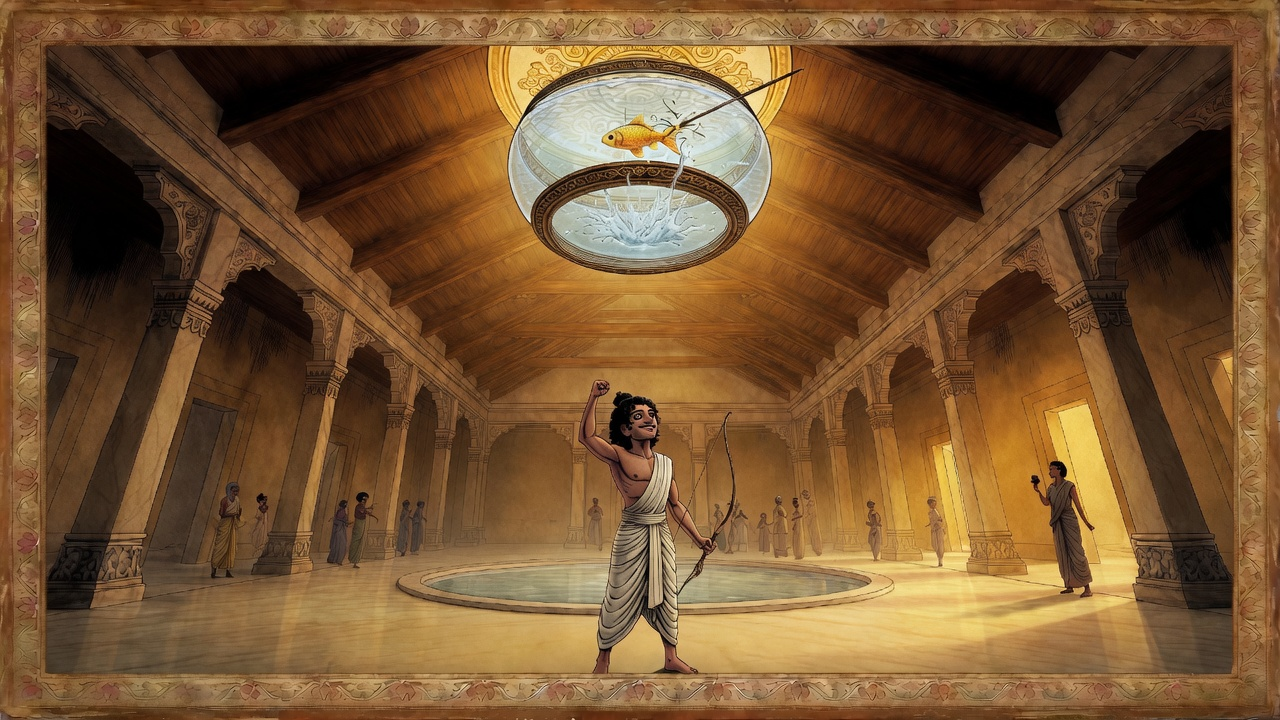
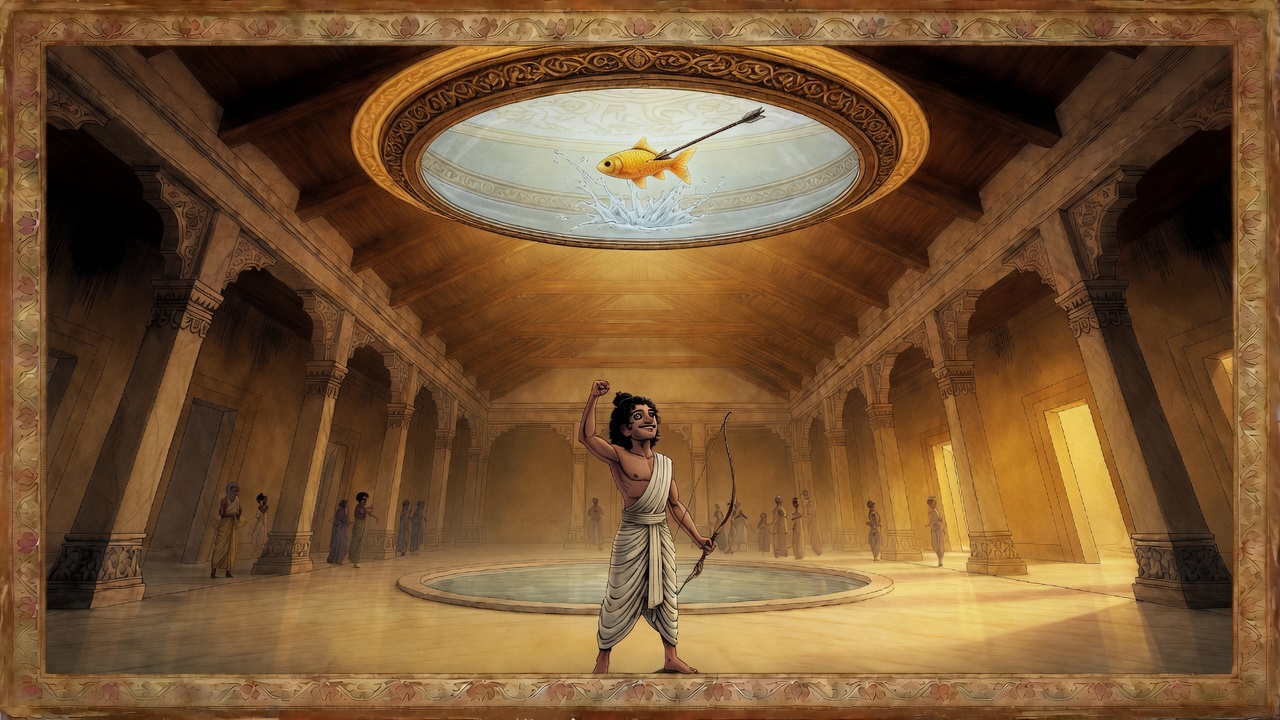
fix(mahabharata): large tank continuity + curtain balcony etiquette
Logic gate now fails sitting-on-railing and pot-sized tanks. Panel 1:
women peer from behind curtains. Panels 3/6/7: large ceiling aquarium
matching challenge plate dimensions.

diff --git a/mahabharata/episodes/02-swayamvara/script.js b/mahabharata/episodes/02-swayamvara/script.js
@@ -12,7 +12,7 @@ export const EPISODE = {
   voice: {
     provider: "grok-tts",
     voice_id: "orion",
-    cache: "ep02-v5-durbar-tank",
+    cache: "ep02-v6-curtain-largetank",
     note: "Grok TTS orion — v4 ceiling-high aquarium + split aim geometry",
     base: "episodes/02-swayamvara/audio/",
   },

diff --git a/mahabharata/play.html b/mahabharata/play.html
@@ -67,6 +67,6 @@
     </div>
   </div>
 
-  <script type="module" src="js/main.js?v=ep02-durbar-tank-v5"></script>
+  <script type="module" src="js/main.js?v=ep02-curtain-largetank-v6"></script>
 </body>
 </html>

diff --git a/mahabharata/tools/logic_review.py b/mahabharata/tools/logic_review.py
@@ -26,7 +26,40 @@ ORPHAN_PROP_BAN = [
     "dry fish on pole",
     "metal fish without glass",
     "fish swimming in floor pool as target",
+    "sitting on the railing",
+    "sitting on the balcony railing",
+    "sitting on the terrace wall",
+    "sitting on the balustrade",
+    "perched on the railing",
+    "legs dangling from balcony",
+    "women sitting on the wall",
 ]
+
+# Court etiquette — positive seating fails
+RAILING_SIT_BAN = re.compile(
+    r"\b(sit|sitting|seated|perch|perched)\b.{0,40}\b(on|atop|upon)\b.{0,30}"
+    r"\b(railing|rail|ledge|terrace wall|balcony wall|balustrade|parapet)\b|"
+    r"\b(railing|ledge|balustrade|terrace wall)\b.{0,20}\b(sit|sitting|seated)\b",
+    re.I,
+)
+CURTAIN_PEER_OK = re.compile(
+    r"\b(behind|through)\b.{0,30}\b(curtain|veil|jali|screen|lattice)\b|"
+    r"\b(peer|peering|shy|shyly|recess|inner balcony)\b",
+    re.I,
+)
+
+# Tank must be large / match challenge — not pot-sized
+TANK_LARGE = re.compile(
+    r"\b(large|wide|broad|huge|same (size|dimensions?|scale)|matching challenge|"
+    r"challenge[- ]lock|apparatus lock|ceiling disc|wide diameter|spans?.{0,20}roof|"
+    r"large fraction|ornamental sealed)\b",
+    re.I,
+)
+TANK_POT_BAN = re.compile(
+    r"\b(small (pot|jar|bowl|tank|fishbowl)|hanging (pot|jar|bauble)|"
+    r"tiny (tank|aquarium|jar)|pot[- ]sized|jar[- ]sized|goldfish bowl)\b",
+    re.I,
+)
 
 # Style words that fail only if requested as the desired look (not negated)
 STYLE_BAN_POSITIVE = re.compile(
@@ -136,6 +169,14 @@ def check_apparatus(bible: dict) -> list[str]:
             fails.append(f"apparatus missing: {name}")
     if re.search(r"dry fish|pole-mounted fish without glass|metal fish on stick", blob):
         fails.append("apparatus forbids dry/pole fish without glass water")
+    # Size lock: check allowed fields only (ignore "forbidden" list wording)
+    size_blob = " ".join(
+        str(app.get(k) or "")
+        for k in ("target", "size", "mount", "height", "size_lock_ref", "task")
+    ).lower()
+    if not re.search(r"large|wide|same (size|dimensions)|challenge", size_blob):
+        fails.append("apparatus must lock LARGE tank size (match challenge plate dimensions)")
+    # Positive allowance of pot-size is fail; listing pot in forbidden is OK
     geom = app.get("aim_geometry") or {}
     if any(p.get("is_aim_beat") for p in bible.get("plates") or []):
         if not geom and "eyes" not in blob:
@@ -170,6 +211,10 @@ def check_plate(plate: dict, cast_ids: set[str], apparatus_on: bool) -> list[str
 
     for ban in ORPHAN_PROP_BAN:
         if ban in positive and ban not in must_not:
+            idx = positive.find(ban)
+            # Allow explicit negation nearby: "NOT sitting on the terrace wall"
+            if idx >= 0 and re.search(r"\b(not|never|no|without|forbid)\b", positive[max(0, idx - 40) : idx]):
+                continue
             fails.append(f"{pid}: banned phrase in positive spec: {ban}")
 
     if STYLE_BAN_POSITIVE.search(positive):
@@ -198,6 +243,38 @@ def check_plate(plate: dict, cast_ids: set[str], apparatus_on: bool) -> list[str
             re.I,
         ):
             fails.append(f"{pid}: aquarium must not be described at mid/eye height (use ceiling height)")
+        if not TANK_LARGE.search(field):
+            fails.append(
+                f"{pid}: tank size FAIL — must require LARGE tank matching challenge/apparatus lock dimensions"
+            )
+        if TANK_POT_BAN.search(field) and not re.search(r"\bnot\b.{0,20}(pot|jar|bowl)", field, re.I):
+            fails.append(f"{pid}: tank size FAIL — pot/jar/bowl-sized tank forbidden")
+
+    # Durbar / balcony etiquette
+    courtish = bool(
+        re.search(r"\b(durbar|balcony|draupadi|maid|princess|veil|throne|prince)", positive, re.I)
+    )
+    if courtish and (
+        plate.get("id") in ("wide", "poster")
+        or re.search(r"\bbalcony\b", positive, re.I)
+    ):
+        # Only fail if sitting-on-railing is asserted without negation
+        for m in RAILING_SIT_BAN.finditer(positive):
+            start = max(0, m.start() - 40)
+            window = positive[start : m.end()]
+            if re.search(r"\b(not|never|no|must not|don't|do not)\b", window):
+                continue
+            fails.append(
+                f"{pid}: court etiquette FAIL — women must not sit on terrace wall/railing/ledge"
+            )
+            break
+        if re.search(r"\b(balcony|terrace)\b", positive, re.I) and re.search(
+            r"\b(draupadi|maid|princess|women|ladies)\b", positive, re.I
+        ):
+            if not CURTAIN_PEER_OK.search(positive):
+                fails.append(
+                    f"{pid}: court etiquette FAIL — royal women on balcony must peer from behind curtains/jali (shy), not sit exposed on the wall"
+                )
 
     # Aim beat: split geometry — eyes DOWN at pool, arrow UP at ceiling aquarium
     if plate.get("is_aim_beat"):

diff --git a/mahabharata/docs/PANEL_LOGIC.md b/mahabharata/docs/PANEL_LOGIC.md
@@ -21,20 +21,35 @@
 | Real-world read | Every prop must be readable as a real object (bow, garland, pool, glass vessel) |
 | No orphan props | No floating weapons, random sculpture-bows, or props with no story role |
 | Scale | Bow height, pool diameter, ceiling mount scale match palace architecture |
+| Human scale | All people same natural size; no giant/dwarf forced perspective |
+| Court etiquette | Royal women do **not** sit on balcony railings/terrace walls (see §2a) |
 | Aim geometry | **Split body:** eyes look **down** at the pool; arms/arrow aim **up** at the high aquarium (see §3a) |
+
+### 2a. Court / balcony etiquette (durbar plates)
+
+Royal women (Draupadi, princesses, maids) in a public court:
+
+| PASS | FAIL |
+|------|------|
+| Seated **behind** curtains, jali screens, or inner balcony recess | Sitting **on** the terrace wall, railing, or ledge with legs dangling |
+| **Shyly peering** out through a gap in curtains / screen | Boldly perched on the balustrade like spectators on a wall |
+| Same human scale as courtiers below | Giant balcony figures vs dwarf floor figures |
+
+**Why the gate must catch this:** Sitting on terrace walls is not how high-born women appear in a regal durbar — it breaks social logic and looks cartoon-wrong even if the composition is pretty.
 
 ### 3. Fish’s Eye apparatus (canonical for Ep 02+)
 
 This is the **only** allowed matsya target setup unless a future ep bible overrides it:
 
 1. **Target:** Live fish swimming in a **large circular ornamental sealed glass aquarium** (flat bottom, ornate rim), filled with water  
-2. **Height:** Aquarium is **at palace ceiling height** — suspended from the roof, **far above** any standing person. In frame: near the **top**, with **long** hanging chains visible; people are **small** relative to hall height. Not mid-air at chest/head height.  
-3. **Mount:** **Chandelier-style** hang from a high ceiling medallion via slender chains/rods only  
-4. **Clear view:** **No** wooden cradle, **no** thick horizontal beams or box frames that obstruct the fish  
-5. **Motion:** Fish clearly **inside water** in the aquarium  
-6. **Mirror:** Circular **water pool on the floor** under the aquarium shows a **clear reflection** of the fish  
-7. **Task:** Hit the **eye of the real fish high above** while **looking only at the reflection below**  
-8. **Forbidden:** Dry fish on pole; fish only in floor pool as target; aquarium at eye/chest/mid-hall height; wooden beam cradle; view-blocking horizontal supports
+2. **Size continuity (critical):** Every fish plate must use the **same large tank dimensions** as the **challenge / apparatus lock plate** — a wide ceiling disc spanning a large fraction of the roof span. **Not** a small pot, jar, fishbowl, or hanging bauble.  
+3. **Height:** Aquarium is **at palace ceiling height** — under the roof, **far above** any standing person.  
+4. **Mount:** **Chandelier-style** or ceiling-fixed ornamental disc; slender chains/rods only if any; **no** wooden cradle  
+5. **Clear view:** **No** thick horizontal beams or box frames that obstruct the fish  
+6. **Motion:** Fish clearly **inside water** in the aquarium  
+7. **Mirror:** Circular **water pool on the floor** under the aquarium shows a **clear reflection** of the fish  
+8. **Task:** Hit the **eye of the real fish high above** while **looking only at the reflection below**  
+9. **Forbidden:** Dry fish on pole; fish only in floor pool as target; aquarium at eye/chest/mid-hall height; wooden beam cradle; **small pot/jar/bowl-sized tank**; view-blocking supports
 
 ### 3a. Aim geometry nuance (critical — aim beats)
 
@@ -53,7 +68,7 @@ The challenge is **optically inverted**. The logic agent must verify **both** ha
 - Arrow aims **into the pool** (as if the reflection were the physical target)  
 - Eyes and arrow both point the same wrong way  
 
-**PASS when:** head/eyes → pool below; bow/arrow → aquarium above; tank is a small high object under the ceiling.
+**PASS when:** head/eyes → pool below; bow/arrow → aquarium above; tank is the **same large ceiling disc** as the challenge lock, high under the roof.
 
 ### 4. Character lock
 

diff --git a/mahabharata/episodes/02-swayamvara/logic-reviews/RR-gateC-curtain-largetank-v6.md b/mahabharata/episodes/02-swayamvara/logic-reviews/RR-gateC-curtain-largetank-v6.md
@@ -1,0 +1,12 @@
+# Logic review — Ep 02 — GATE C v6
+
+Status: PASS
+## Why gate missed earlier
+Court etiquette (no sitting on terrace walls) and tank size continuity were not encoded.
+## Now encoded
+- PANEL_LOGIC §2a court/balcony etiquette
+- logic_review.py: RAILING_SIT_BAN, CURTAIN_PEER_OK, TANK_LARGE / pot ban
+- bible: large tank size lock + curtain peer must_show
+## Visual
+- Panel 1: women peer from behind curtains
+- Panels 3/6/7: large ceiling disc tank matching panel 2
